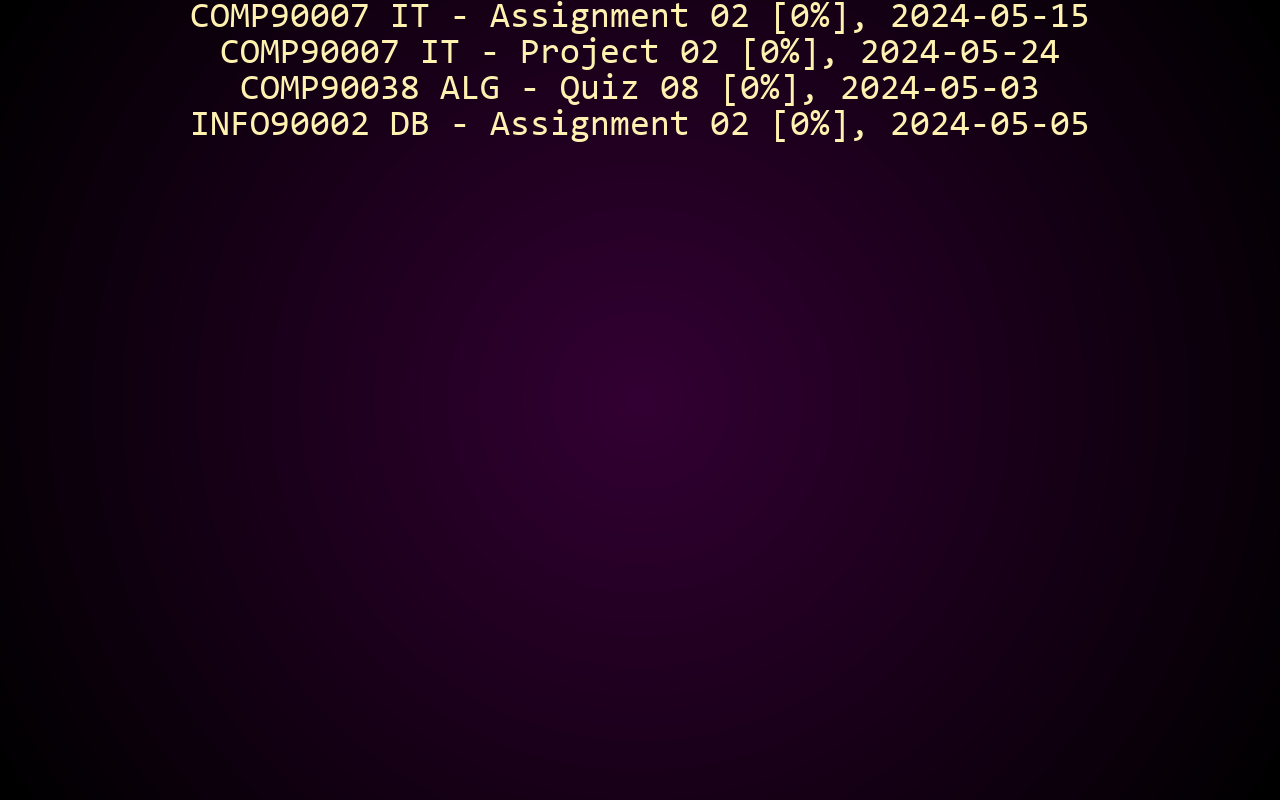
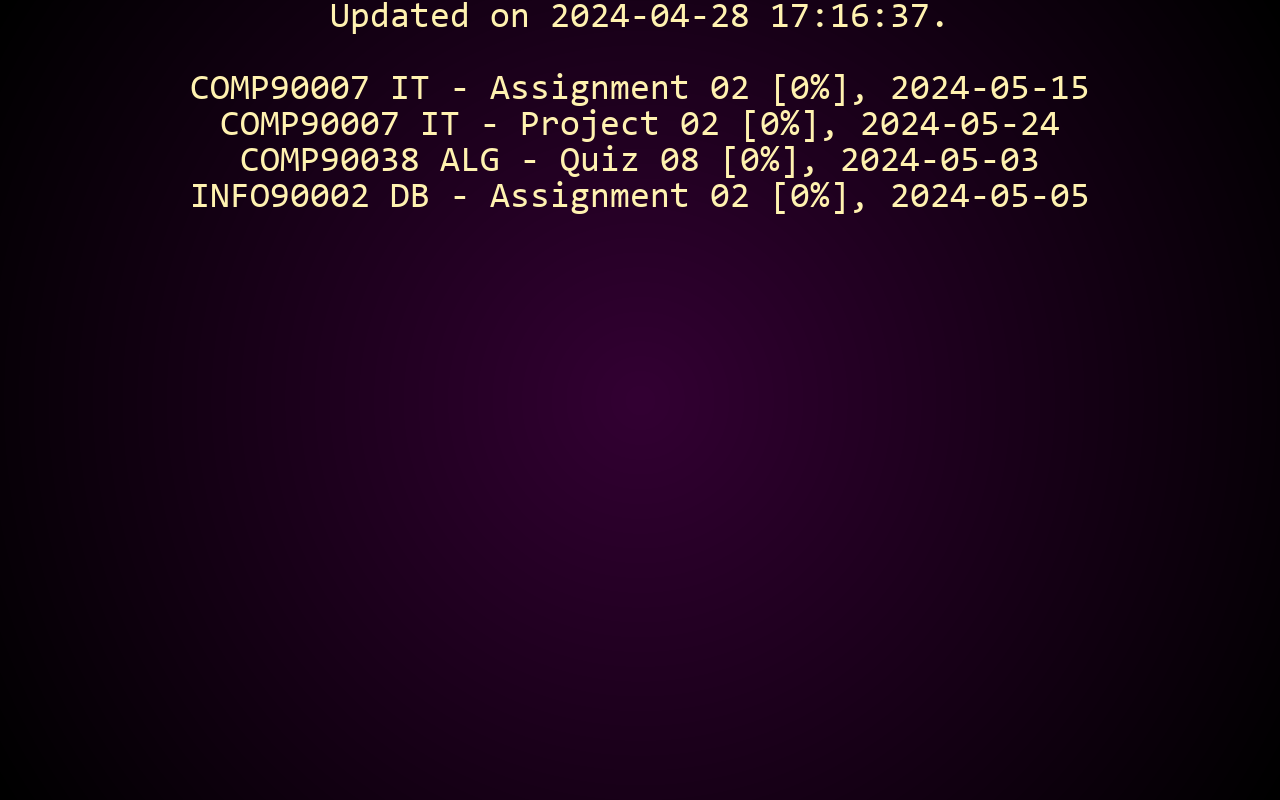
Save on 2024-04-28 17:17:12. Add date hint.

Changed region(s): [[0.125, 0.0, 0.8438, 0.2812]]

diff --git a/script/gen.py b/script/gen.py
@@ -1,3 +1,4 @@
+import datetime
 import json
 import os
 
@@ -21,17 +22,33 @@ if __name__ == "__main__":
     img = get_gradient_background(SCREEN_WIDTH, SCREEN_HEIGHT)
     d = ImageDraw.Draw(img)
     fnt = ImageFont.truetype('Consolas.ttf', FONT_SIZE)
+    y_count = 0
+
+    # Add date.
+    now = datetime.datetime.now()
+    text = f'Updated on {now.strftime("%Y-%m-%d %H:%M:%S")}.'
+    text_width = fnt.getlength(text)
+    text_height = FONT_SIZE
+    x = (SCREEN_WIDTH - text_width) / 2
+    d.text(
+        (x, text_height * y_count),
+        text,
+        font=fnt,
+        fill=(255, 242, 176)
+    )
+    y_count += 2
 
     # Add text.
     tasks.sort(key=lambda x: x['task'])
-    for i, task in enumerate(tasks):
+    for task in tasks:
         text = ""
         text += f"{task['task']} [{task['progress']}%]"
         text += (f", {task['ddl']}" if 'ddl' in task else "")
         text_width = fnt.getlength(text)
         text_height = FONT_SIZE
         x = (SCREEN_WIDTH - text_width) / 2
-        y = text_height * i
+        y = text_height * y_count
+        y_count += 1
         d.text(
             (x, y),
             text,
@@ -48,9 +65,9 @@ if __name__ == "__main__":
     set_wallpaper(file_path)
 
     # Delete image.
-    if os.path.exists(file_path):
-        os.remove(file_path)
-        print("File removed successfully.")
-    else:
-        print("File does not exist.")
+    # if os.path.exists(file_path):
+    #     os.remove(file_path)
+    #     print("File removed successfully.")
+    # else:
+    #     print("File does not exist.")
 
